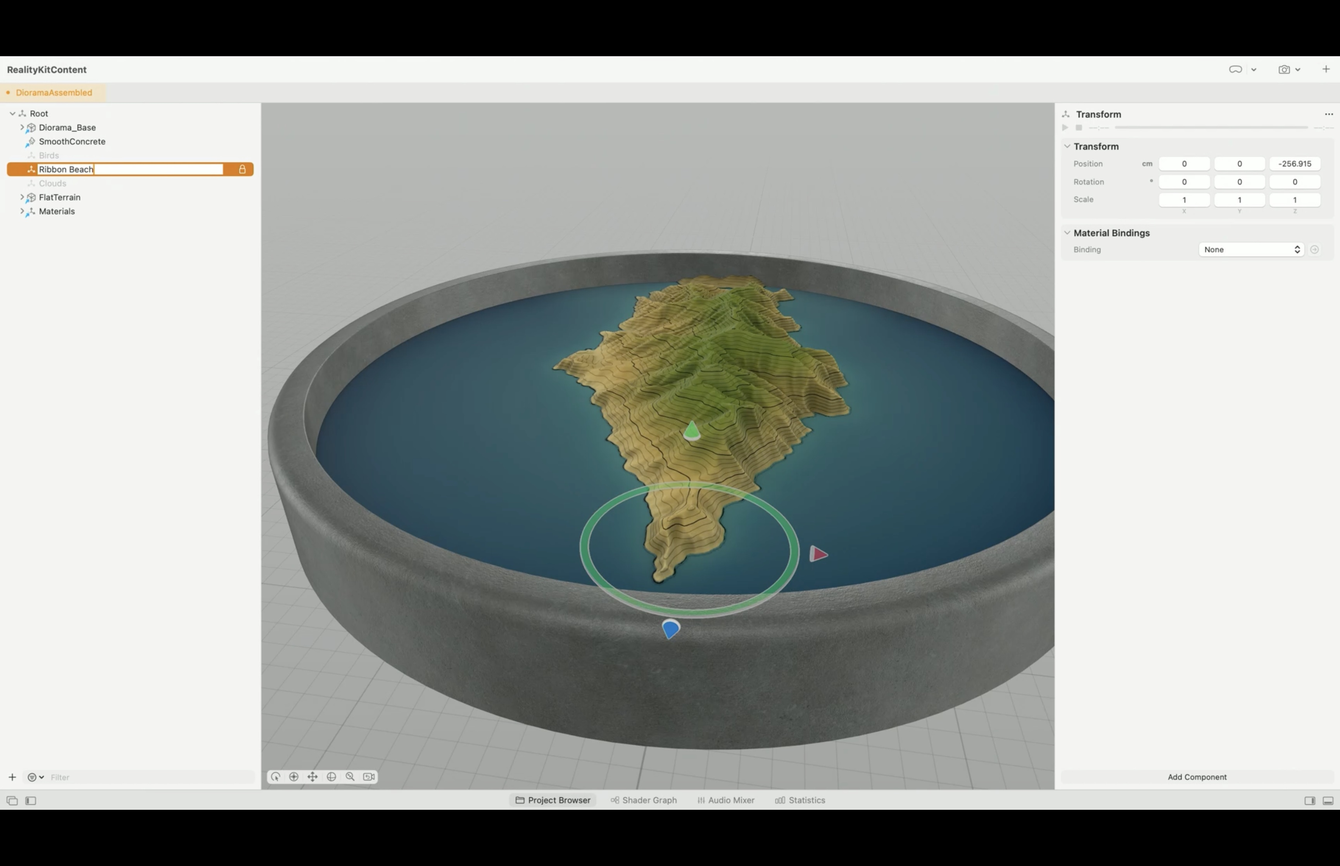
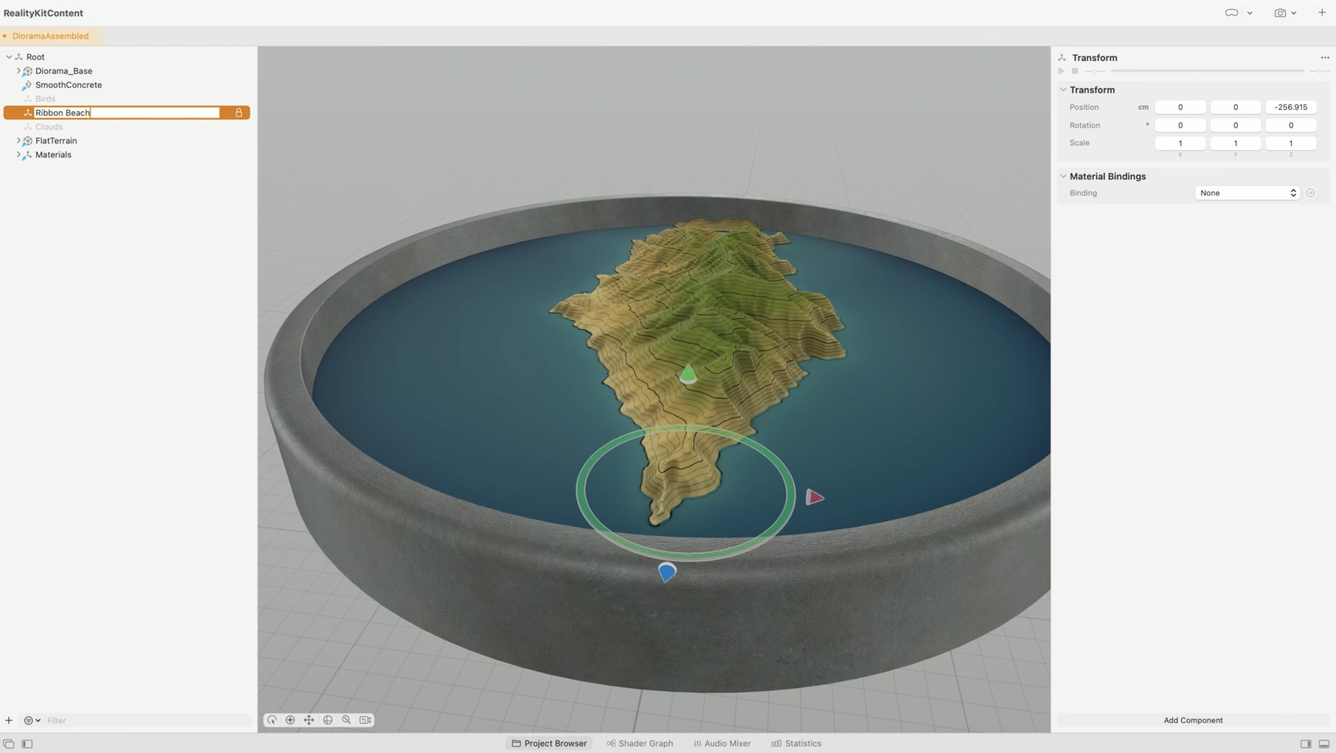
final 10273

diff --git a/content/notes/wwdc23/10273.md b/content/notes/wwdc23/10273.md
@@ -43,6 +43,10 @@ In the above sessions, we made a Reality Composer Pro project that contains all 
 
 Let's see how we load this scene named DioramaAssembled at runtime.
 
+![dioramaAssembled][dioramaAssembled]  
+
+[dioramaAssembled]: ../../../images/notes/wwdc23/10273/dioramaAssembled.jpg
+
 We use entity's asynchronous initializer to make us an entity with the contents from our Reality Composer Pro package.
 ```swift
 let entity = try await Entity(named: "DioramaAssembled", in: realityKitContentBundle)
@@ -82,12 +86,12 @@ Entities are a part of ECS, which stands for Entity Component System. ECS is wha
 
 Let's take a step back and understand ECS. ECS has some close parallels to object-oriented programming but is different in some key ways. In the object-oriented programming world, the object has properties which are attributes that define its nature, and it has its own functionality. You write these properties and functions in a class that defines the object.  
 
+### Entity
+In the ECS world, an entity is any thing you see in the scene. They can also be invisible. They don't hold attributes or data though. We put our data into components instead.
+
 ![Entity Component System][ecs]  
 
 [ecs]: ../../../images/notes/wwdc23/10273/ecs.jpg
-
-### Entity
-In the ECS world, an entity is any thing you see in the scene. They can also be invisible. They don't hold attributes or data though. We put our data into components instead.
 
 ### Components
 Components can be added to or removed from entities at any time during app execution, which provides a way to dynamically change the nature of an entity.
@@ -201,8 +205,6 @@ public struct Point0fInterestComponent: Component, Codable {
 
 [component11]: ../../../images/notes/wwdc23/10273/component11.jpg
 
-
-
 Back in Reality Composer Pro, the count property has gone away and our new region property shows up. It has a default value of yosemite because that's what we initialized in the code, but we can override it here for this particular entity.
 
 ![Entity Component System][component12]  
@@ -277,11 +279,13 @@ Your SwiftUI views start out in the attachments ViewBuilder, then they are deliv
 
 [component14]: ../../../images/notes/wwdc23/10273/component14.jpg
 
-Here, you ask the attachments parameter if it has an entity for you using the same tag you gave to your button in the attachments ViewBuilder. If there is one, it vends you a RealityKit entity. In your update closure, you set its 3D position and add it to your RealityKit scene so you can see it floating in space wherever you want. 
+Here, you ask the attachments parameter if it has an entity for you using the same tag you gave to your button in the attachments ViewBuilder.
 
 ![Entity Component System][component15]  
 
 [component15]: ../../../images/notes/wwdc23/10273/component15.jpg
+
+If there is one, it vends you a RealityKit entity. In your update closure, you set its 3D position and add it to your RealityKit scene so you can see it floating in space wherever you want. 
 
 Here, I've added my button entity as a child of a sphere entity. I positioned it 0.2 meters above its parent. 
 
@@ -337,10 +341,6 @@ To make it data-driven, we need our code to read the data that we set up in our 
 
 High level, here's what we're going to do. 
 
-![Entity Component System][component20]  
-
-[component20]: ../../../images/notes/wwdc23/10273/component20.jpg
-
 - Add invisible entities
 In Reality Composer Pro, we already set up our placeholder entity for Ribbon Beach, and we'll do the same for the other points of interest that we want to highlight in our diorama. We'll fill out all the info each one needs, like their name and which map they belong on. 
 
@@ -381,26 +381,36 @@ To get our buttons into our RealityView, we'll make use of the SwiftUI view-upda
 
 [component24]: ../../../images/notes/wwdc23/10273/component24.jpg
 
-The RealityView's attachments ViewBuilder is where we'll declare to SwiftUI that we want these buttons to be made into entities. Our RealityView's update closure will be called next, and our buttons will be delivered to us as entities.
+The RealityView's attachments ViewBuilder is where we'll declare to SwiftUI that we want these buttons to be made into entities. Our RealityView's update closure will be called next, and our buttons will be delivered to us as entities.   They're no longer SwiftUI Views now. That's why we can add them to our entity hierarchy.
 
 ![Entity Component System][component25]  
 
 [component25]: ../../../images/notes/wwdc23/10273/component25.jpg
 
- They're no longer SwiftUI Views now. That's why we can add them to our entity hierarchy. In the update closure, we add our attachment entities to the scene, positioned floating above each of our invisible entities. Now they will show up visually when we look at our diorama scene.
+In the update closure, we add our attachment entities to the scene, positioned floating above each of our invisible entities. Now they will show up visually when we look at our diorama scene.
 
 ![Entity Component System][component26]  
 
 [component26]: ../../../images/notes/wwdc23/10273/component26.jpg
 
-Let's see how each of these steps is done. First, we mark our invisible entities in our Reality Composer Pro scene. 
+Let's see how each of these steps is done.
+
+First, we mark our invisible entities in our Reality Composer Pro scene. 
 
 ![Entity Component System][component27]  
 
 [component27]: ../../../images/notes/wwdc23/10273/component27.jpg
 
-To find our entities that we marked, we'll make an EntityQuery. We'll use it to ask for all entities that have a PointOfInterestComponent on them. We'll then iterate through our QueryResult and create a new SwiftUI View for each entity in our scene that has a PointOfInterestComponent on it. We'll fill it in with information we grab from the component, the data we entered in Reality Composer Pro.
-  That view is going to be one of our attachments, so we put a tag on it. In this case, we're getting serious, so we'll use an ObjectIdentifier rather than a fish emoji. Here's the part where we make our collection of SwiftUI Views. We'll call it attachmentsProvider since it will provide our attachments to the RealityView's attachments ViewBuilder. We'll then store our view in the attachmentsProvider.
+To find our entities that we marked, we'll make an EntityQuery. We'll use it to ask for all entities that have a PointOfInterestComponent on them.
+
+```swift
+static let markersQuery = EntityQuery(where: .has (PointOfInterestComponent.self))
+```
+
+We'll then iterate through our QueryResult and create a new SwiftUI View for each entity in our scene that has a PointOfInterestComponent on it. We'll fill it in with information we grab from the component, the data we entered in Reality Composer Pro.
+
+That view is going to be one of our attachments, so we put a tag on it. In this case, we're getting serious, so we'll use an ObjectIdentifier rather than a fish emoji. Here's the part where we make our collection of SwiftUI Views. We'll call it attachmentsProvider since it will provide our attachments to the RealityView's attachments ViewBuilder. We'll then store our view in the attachmentsProvider.
+
 ```swift
 static let markersQuery = EntityQuery(where: .has (PointOfInterestComponent.self))
 @State var attachmentsProvider = AttachmentsProvider ()
@@ -416,7 +426,9 @@ rootEntity.scene?.performQuery(Self.markersQuery).forEach { entity in
 	attachmentsProvider.attachments[attachmentTag]= AnyView(view)
 ```
 
-Let's take a look at that collection type. AttachmentsProvider has a dictionary of attachment tags to views. We type-erased our view so we can put other kinds of views in there besides our LearnMoreView. We have a computed property called sortedTagViewPairs that returns an array of tuples -- tags and their corresponding views -- in the same order every time. Then, in the attachments ViewBuilder, we'll ForEach over our collection of attachments that we made. This tells SwiftUI that we want one view for each of the pairs we've given it, and we provide our views from our collection. We're letting the ObjectIdentifier do double duty here as both an attachment tag for the view, and as an identifier for the ForEach structure. 
+Let's take a look at that collection type. 
+
+AttachmentsProvider has a dictionary of attachment tags to views. We type-erased our view so we can put other kinds of views in there besides our LearnMoreView. We have a computed property called sortedTagViewPairs that returns an array of tuples -- tags and their corresponding views -- in the same order every time. Then, in the attachments ViewBuilder, we'll ForEach over our collection of attachments that we made. This tells SwiftUI that we want one view for each of the pairs we've given it, and we provide our views from our collection. We're letting the ObjectIdentifier do double duty here as both an attachment tag for the view, and as an identifier for the ForEach structure. 
 ```swift
 @Observable final class AttachmentsProvider {
 	var attachments: [ObjectIdentifier: AnyView] = [:]
@@ -444,7 +456,14 @@ So, why didn't we just add a tag property to our PointOfInterestComponent instea
 
 [component28]: ../../../images/notes/wwdc23/10273/component28.jpg
 
-Attachment tags need to be unique, both for the ForEach struct and the attachments mechanism to work. And since all the properties in our custom component will be shown in Reality Composer Pro's Inspector Panel when you add the component to an entity, that means the attachmentTag would show up there too. We don't want to burden ourselves with having to remember to uniquify all the tags when we're adding each point of interest in Reality Composer Pro. But, conveniently for us, entities conform to the Identifiable protocol, so they have identifiers that are unique automatically. We can get this identifier at runtime from the entity without needing to know it ahead of time when we're designing our scene in Reality Composer Pro. To have the attachmentTag property not show up in Reality Composer Pro, we use a technique that I call "design-time versus runtime components." We'll separate our data into two different components, one for design-time data that we want to arrange in Reality Composer Pro, and one for runtime data that we will attach to those same entities dynamically at runtime. This is for properties that we don't want to show in our Inspector Panel in Reality Composer Pro. So we'll define a new component, PointOfInterestRuntimeComponent, and move our attachment tag inside it.
+Attachment tags need to be unique, both for the ForEach struct and the attachments mechanism to work. And since all the properties in our custom component will be shown in Reality Composer Pro's Inspector Panel when you add the component to an entity, that means the attachmentTag would show up there too. We don't want to burden ourselves with having to remember to uniquify all the tags when we're adding each point of interest in Reality Composer Pro.
+
+But, conveniently for us, entities conform to the Identifiable protocol, so they have identifiers that are unique automatically. We can get this identifier at runtime from the entity without needing to know it ahead of time when we're designing our scene in Reality Composer Pro.
+
+To have the attachmentTag property not show up in Reality Composer Pro, we use a technique that I call "design-time versus runtime components." We'll separate our data into two different components, one for design-time data that we want to arrange in Reality Composer Pro, and one for runtime data that we will attach to those same entities dynamically at runtime. 
+
+This is for properties that we don't want to show in our Inspector Panel in Reality Composer Pro. So we'll define a new component, PointOfInterestRuntimeComponent, and move our attachment tag inside it.
+
 ```swift
 // Design-time component
 public struct PointOfInterestComponent: Component, Codable {
@@ -458,8 +477,15 @@ public struct PointOfInterestRuntimeComponent: Component {
 	public let attachmentTag: ObjectIdentifier
 }
 ```
+
 ## Custom components in Reality Composer Pro
-So we'll define a new component, PointOfInterestRuntimeComponent, and move our attachment tag inside it. Reality Composer Pro automatically builds the component UI for you based on what it reads in your Swift package. It inspects the Swift code in your package and makes any codable components it finds available for you to use in your scenes. Here we're showing four components. Components A and B are in our Xcode project, but they are not inside the Reality Composer Pro package, so they won't be available for you to attach to your entities in Reality Composer Pro. Component C is inside the package but it is not codable, so Reality Composer Pro will ignore it. Of the four components shown here, only Component D will be shown in the list in Reality Composer Pro because it is within the Swift package and it is a codable component. That one is our design-time component, while all the others may be used as runtime components.
+So we'll define a new component, PointOfInterestRuntimeComponent, and move our attachment tag inside it. Reality Composer Pro automatically builds the component UI for you based on what it reads in your Swift package. 
+
+It inspects the Swift code in your package and makes any codable components it finds available for you to use in your scenes. Here we're showing four components. Components A and B are in our Xcode project, but they are not inside the Reality Composer Pro package, so they won't be available for you to attach to your entities in Reality Composer Pro. 
+
+Component C is inside the package but it is not codable, so Reality Composer Pro will ignore it. Of the four components shown here, only Component D will be shown in the list in Reality Composer Pro because it is within the Swift package and it is a codable component. 
+
+That one is our design-time component, while all the others may be used as runtime components.
 
 ![Entity Component System][component29]  
 
@@ -467,10 +493,12 @@ So we'll define a new component, PointOfInterestRuntimeComponent, and move our a
 
 Design-time components are for housing simpler data, such as ints, strings, and SIMD values, things that 3D artists and designers will make use of. You'll see an error in your Xcode project if you add a property to your custom component that's of a type that Reality Composer Pro won't serialize. 
 
+Now, let's get back to our code. We'll first add our PointOfInterest runtime component to our entity and then use the runtime component to help us match up our attachment entities with their corresponding points of interest on the diorama.
 
-Now, let's get back to our code. We'll first add our PointOfInterest runtime component to our entity and then use the runtime component to help us match up our attachment entities with their corresponding points of interest on the diorama. 
+Here's where our runtime component comes in. We're at the part where we're reading in our PointOfInterest entities and creating our attachment views. We queried for all our design-time components, and now we'll make a new corresponding runtime component for each of them. We store our attachmentTag in our runtime component, and we store our runtime component on that same entity. In this way, the design-time component is like a signifier. It tells our app that it wants an attachment made for it. 
 
-Here's where our runtime component comes in. We're at the part where we're reading in our PointOfInterest entities and creating our attachment views. We queried for all our design-time components, and now we'll make a new corresponding runtime component for each of them. We store our attachmentTag in our runtime component, and we store our runtime component on that same entity. In this way, the design-time component is like a signifier. It tells our app that it wants an attachment made for it. The runtime component handles any other kinds of data we need during app execution, but don't want to store in the design-time component.
+The runtime component handles any other kinds of data we need during app execution, but don't want to store in the design-time component.
+
 ```swift
 static let markersQuery = EntityQuery(where: .has(PointOfInterestComponent.self))
 @State var attachmentsProvider = AttachmentsProvider()
@@ -489,9 +517,16 @@ rootEntity.scene?.performQuery(Self.markersQuery).forEach { entity in
 }
 ```
 
-In our RealityView, we have one more step before we see our attachment entities show up in our scene. Once we've provided our SwiftUI Views in the attachments ViewBuilder, SwiftUI will call our RealityView's update closure and give us our attachments as RealityKit entities. But if we just add them to the content without positioning them, they'll all show up sitting at the origin of the scene, position 0, 0, 0.
+In our RealityView, we have one more step before we see our attachment entities show up in our scene. Once we've provided our SwiftUI Views in the attachments ViewBuilder, SwiftUI will call our RealityView's update closure and give us our attachments as RealityKit entities. 
 
-That's not where we want them. We want them to float above each point of interest on the terrain. We need to match up our attachment entities with our invisible point of interest entities that we set up in Reality Composer Pro. The runtime component we put on the invisible entity has our tag in it. That's how we'll match up which attachmentEntity goes with each point of interest entity. We query for all our PointOf InterestRuntimeComponents, we get that runtime component from each entity returned by the query, then we use the component's attachmentTag property to get our attachmentEntity from the attachments parameter to the update closure. Now we add our attachmentEntity to the content and position it half a meter above the point of interest entity.
+But if we just add them to the content without positioning them, they'll all show up sitting at the origin of the scene, position 0, 0, 0.
+
+That's not where we want them. We want them to float above each point of interest on the terrain. We need to match up our attachment entities with our invisible point of interest entities that we set up in Reality Composer Pro.
+
+The runtime component we put on the invisible entity has our tag in it. That's how we'll match up which attachmentEntity goes with each point of interest entity. We query for all our PointOf InterestRuntimeComponents, we get that runtime component from each entity returned by the query, then we use the component's attachmentTag property to get our attachmentEntity from the attachments parameter to the update closure. 
+
+Now we add our attachmentEntity to the content and position it half a meter above the point of interest entity.
+
 ```swift
 static let runtimeQuery = EntityQuery(where: .has(PointOfInterestRuntimeComponent.self))
 
@@ -513,7 +548,7 @@ RealityView { _, _ in
 }
 ```
 
-Let's run our app again and see what these look like. Hey, they look great! We can see each place name floating above the spot where we put them in our Reality Composer Pro project.
+Let's run our app again and see what these look like.
 
 ![Entity Component System][component30]  
 
@@ -535,10 +570,15 @@ This creates a regular invisible entity with an AmbientAudioComponent on it. Let
 
 You need to add an audio file to your scene as well. Let's bring in our ocean sound.
 
-You can preview your audio component by selecting a sound in the Preview menu of the component in the Inspector Panel, but this won't automatically play the selected sound when the entity is loaded in your app. For that, we need to load the audio resource and tell it to play. To play this sound, we'll get a reference to the entity that we put the audio component on. We've named our entity OceanEmitter, so we'll find our entity by that name. We load the sound file using the AudioFileResource initializer, passing it the full path to the audio file resource prim in our scene. We give it the name of the .usda file that contains it in our Reality Composer Pro project. In our case, that's our main scene named DioramaAssembled.usda. We create an audioPlaybackController by calling entity.prepareAudio so we can play, pause, and stop this sound.
+You can preview your audio component by selecting a sound in the Preview menu of the component in the Inspector Panel, but this won't automatically play the selected sound when the entity is loaded in your app.
+
+For that, we need to load the audio resource and tell it to play. To play this sound, we'll get a reference to the entity that we put the audio component on. We've named our entity OceanEmitter, so we'll find our entity by that name. We load the sound file using the AudioFileResource initializer, passing it the full path to the audio file resource prim in our scene. We give it the name of the .usda file that contains it in our Reality Composer Pro project. In our case, that's our main scene named DioramaAssembled.usda.
+
+We create an audioPlaybackController by calling entity.prepareAudio so we can play, pause, and stop this sound.
 
 ```swift
 func playOceanSound() {
+
 	guard let entity = entity.findEntity(named: "OceanEmitter"),
 		let resource = try? AudioFileResource(named: "/Root/Resources/Ocean_Sounds_wav", 
 			from: "DioramaAssembled.usda",
@@ -548,10 +588,12 @@ func playOceanSound() {
 	audioPlaybackController.play ()
 ```
 
-Here's the ocean sound playing in our app. Now, we're going to crossfade between two audio sources. We add a forest audio emitter the same way we added our ocean emitter entity.
+Now, we're going to crossfade between two audio sources. We add a forest audio emitter the same way we added our ocean emitter entity.
 
 # Material properties
-Let's take a look at how we're morphing our terrain using the slider, and we'll also include audio in this transition. We'll use a property from our Shader Graph material to morph between the two terrains. Let's see how we do that. In Niels's session, he created this beautiful geometry modifier for us using Reality Composer Pro's Shader Graph. Now we can hook it up to our scene and drive some of the parameters at runtime. We want to connect this Shader Graph material with a slider. To do that, we need to promote an input node. Command-click on the node and select Promote.
+Let's take a look at how we're morphing our terrain using the slider, and we'll also include audio in this transition. We'll use a property from our Shader Graph material to morph between the two terrains. Let's see how we do that.
+
+In Niels's session, he created this beautiful geometry modifier for us using Reality Composer Pro's Shader Graph. Now we can hook it up to our scene and drive some of the parameters at runtime. We want to connect this Shader Graph material with a slider. To do that, we need to promote an input node. Command-click on the node and select Promote.
 
 ![Material properties][materials]  
 
@@ -563,7 +605,10 @@ This tells the project that we intend to supply data at runtime to this part of 
 
 [materials2]: ../../../images/notes/wwdc23/10273/materials2.jpg
 
-We can now dynamically change this value in code. We get a reference to the entity that our material is on. Then we get its ModelComponent, which is the RealityKit component that houses materials. From the ModelComponent, we get its first material. There's only one on this particular entity. We cast it to type ShaderGraphMaterial. Now, we can set a new value for our parameter with name Progress. Finally, we store the material back onto the ModelComponent, and the ModelComponent back onto the terrain entity.
+We can now dynamically change this value in code. We get a reference to the entity that our material is on. Then we get its ModelComponent, which is the RealityKit component that houses materials. From the ModelComponent, we get its first material.
+
+There's only one on this particular entity. We cast it to type ShaderGraphMaterial. Now, we can set a new value for our parameter with name Progress. Finally, we store the material back onto the ModelComponent, and the ModelComponent back onto the terrain entity.
+
 ```swift
 guard let terrain = rootEntity.findEntity(named: "DioramaTerrain"),
 	var modelComponent = terrain.components[ModelComponent.self,
@@ -577,6 +622,7 @@ do {
 ```
 
 Now we'll hook that up to our SwiftUI slider. Whenever the slider's value changes, we'll grab that value, which is in the range 0 to 1, and feed it into our ShaderGraphMaterial.
+
 ```swift
 @State private var sliderValue: Float = 0.0
 
@@ -595,7 +641,14 @@ Slider (value: $sliderValue, in: (0.0)... (1.0))
 }
 ```
 
-Next, let's crossfade between the ambient audio tracks for our two terrains. Because we've also put an AmbientAudioComponent on our two audio entities, ocean and forest, we can adjust how loud the sound plays using the gain property on them. We'll query for all entities -- all two at this point, our ocean and our forest -- that have the AmbientAudioComponent on them. Plus, we added another custom component called RegionSpecificComponent so we can mark the entities that go with one region or the other. We get a mutable copy of our audioComponent because we're going to change it and store it back onto our entity. We call a function that calculates what the gain should be given a region and a sliderValue. We set the gain value onto the AmbientAudioComponent, and then we store the component back onto the entity.
+Next, let's crossfade between the ambient audio tracks for our two terrains.
+
+Because we've also put an AmbientAudioComponent on our two audio entities, ocean and forest, we can adjust how loud the sound plays using the gain property on them.
+
+We'll query for all entities -- all two at this point, our ocean and our forest -- that have the AmbientAudioComponent on them. Plus, we added another custom component called RegionSpecificComponent so we can mark the entities that go with one region or the other. We get a mutable copy of our audioComponent because we're going to change it and store it back onto our entity.
+
+We call a function that calculates what the gain should be given a region and a sliderValue. We set the gain value onto the AmbientAudioComponent, and then we store the component back onto the entity.
+
 ```swift
 @State private var sliderValue: Float = 0.0
 static let audioQuery = EntityQuery(where: .has(RegionSpecificComponent.self)
@@ -619,7 +672,9 @@ Slider (value: $sliderValue, in: (0.0)... (1.0))
 }
 ```
 
-Let's see that in action.   Great! When we move the slider, we can see our Shader Graph material changing the geometry of the terrain map, and we can hear the forest sound fading out and the ocean sound coming in.  We covered a lot of information today. Let's recap. We've learned how to load our Reality Composer Pro content into our app in Xcode. We looked at how to create your own custom components in Reality Composer Pro. We explored how the SwiftUI Attachments API works and how they are delivered to us as entities. We saw how to set up audio and then play that audio in code. And finally, we saw how to take a promoted material property and drive it from code. These workflows will help you bring your spatial experiences to life. I look forward to seeing all the amazing things you'll build on our new platform. Thank you. ♪
+Let's see that in action.
+
+When we move the slider, we can see our Shader Graph material changing the geometry of the terrain map, and we can hear the forest sound fading out and the ocean sound coming in.
 
 ![Material properties][audio3]  
 
